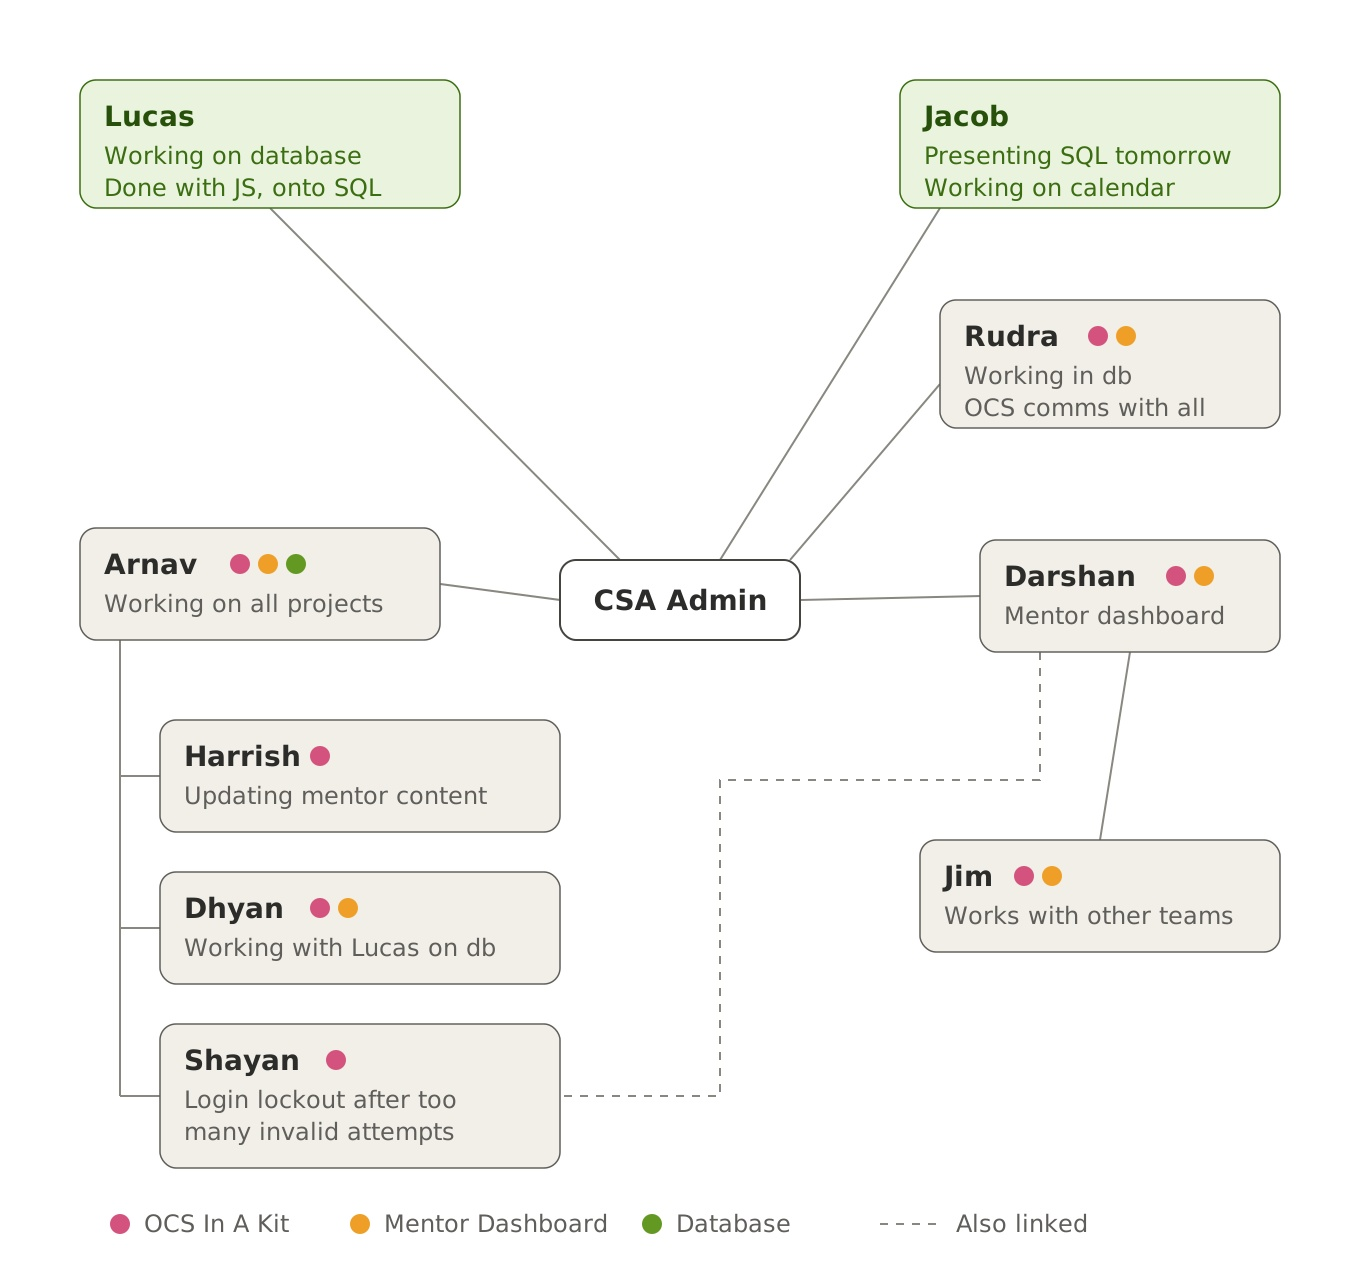
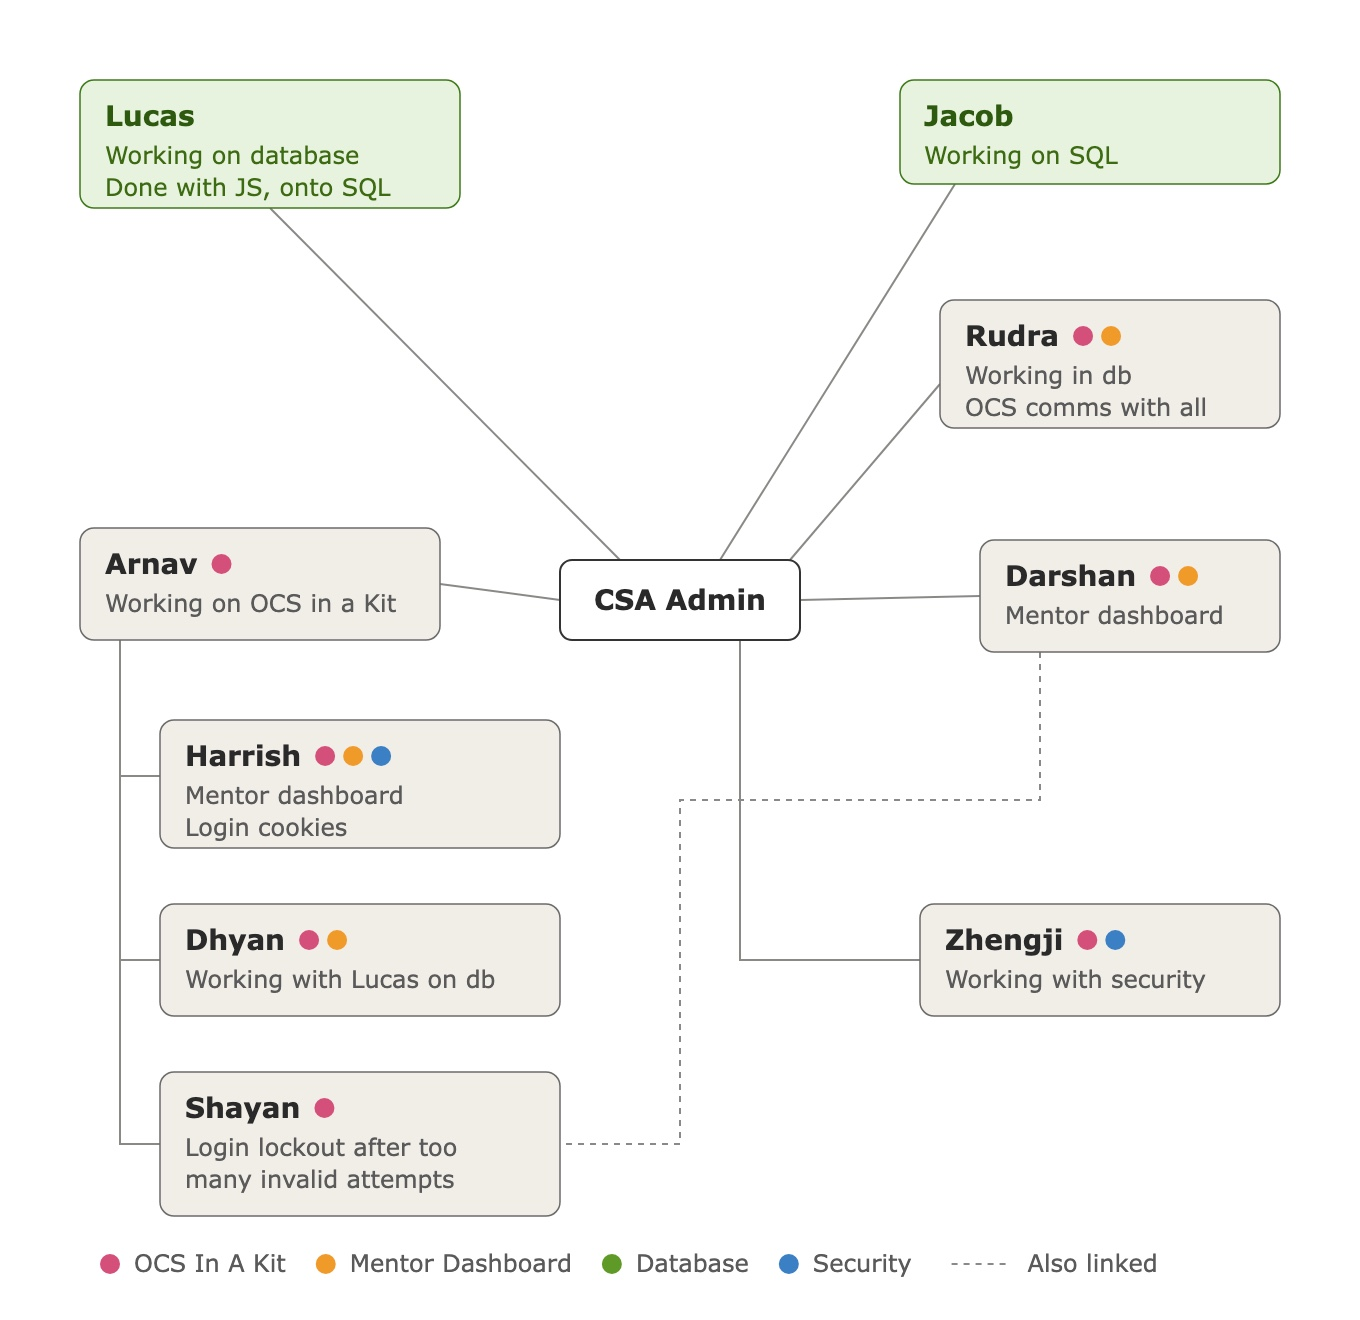
Update OCS Admin & Security team flow for new assignments
Arnav now works only on OCS in a Kit, Harrish joins the mentor dashboard
and works on login cookies, Jacob focuses on SQL, and Zhengji (formerly
labeled Jim) works with security. The mindmap is redrawn with a Security
legend entry, and the page text, alt text, and Security section match.

diff --git a/_includes/ocs-admin-security-team.html b/_includes/ocs-admin-security-team.html
@@ -68,7 +68,7 @@
 <h2 class="ocs__section-title">Security</h2>
 <p class="ocs__lead">Every kit ships safe: only verified people get in, and student code never touches the platform.</p>
 <div class="ocs__split">
-<div class="ocs__visual"><div class="ocs__team"><span class="ocs__team-label">Owned by</span><span class="ocs__team-name">Jacob C, Lucas M, Zhengji L</span></div></div>
+<div class="ocs__visual"><div class="ocs__team"><span class="ocs__team-label">Owned by</span><span class="ocs__team-name">Zhengji L, Harrish A, Jacob C, Lucas M</span></div></div>
 <div class="ocs__visual"><div class="ocs__team"><span class="ocs__team-label">Built with</span><span class="ocs__team-name"><span class="ocs__status-pill">Spring Boot</span> <span class="ocs__status-pill">Flask</span> <span class="ocs__status-pill">Docker</span> <span class="ocs__status-pill">JWT</span> <span class="ocs__status-pill">Google OAuth2</span></span></div></div>
 </div>
 <h3 class="ocs__section-title">Shipped <span class="ocs__status-pill ocs__status-pill--good">5</span></h3>
@@ -79,6 +79,10 @@
 <div class="ocs__keypoint"><span class="ocs__check">&#10003;</span><span><strong>Safe password sync.</strong> Plaintext sync to Flask is refused over insecure links.</span></div>
 <div class="ocs__keypoint"><span class="ocs__check">&#10003;</span><span><strong>Isolated Flask runner.</strong> Python runs in its own Docker container, never in the main app.</span></div>
 </div>
+<h3 class="ocs__section-title">In progress <span class="ocs__status-pill ocs__status-pill--warn">1</span></h3>
+<ul class="ocs__checklist">
+<li class="open"><span class="ocs__checklist-box"></span><span><strong>Login cookies.</strong> Harrish is working on the cookies that keep a user signed in, so a session stays secure from login to logout.</span></li>
+</ul>
 <h3 class="ocs__section-title">Next <span class="ocs__status-pill ocs__status-pill--warn">7</span></h3>
 <ul class="ocs__checklist">
 <li><span class="ocs__checklist-box"></span><span><strong>Simpler password policy.</strong> Spring's password-complexity check is causing support issues, so it comes out first.</span></li>
@@ -131,7 +135,7 @@
 </ul>
 <h3 class="ocs__section-title">In progress <span class="ocs__status-pill ocs__status-pill--warn">1</span></h3>
 <ul class="ocs__checklist">
-<li class="open"><span class="ocs__checklist-box"></span><span><strong>Mentor dashboard.</strong> We are building a dashboard where each mentor tracks only their own groups' progress and notes, building on the mentor role and verification already shipped. Darshan leads it, and Zhengji brings in what other teams need from it.</span></li>
+<li class="open"><span class="ocs__checklist-box"></span><span><strong>Mentor dashboard.</strong> We are building a dashboard where each mentor tracks only their own groups' progress and notes, building on the mentor role and verification already shipped. Darshan leads it, with Harrish building alongside.</span></li>
 </ul>
 <h3 class="ocs__section-title">Next <span class="ocs__status-pill ocs__status-pill--warn">5</span></h3>
 <ul class="ocs__checklist">
@@ -185,13 +189,14 @@
 <div class="ocs__grid-cell"><strong>Reviewed and reported</strong><br>Review before done, and a weekly update every Thursday.</div>
 </div>
 <h3 class="ocs__section-title" id="team-flow">Our team flow</h3>
-<p>This mindmap shows how we split the work. Everyone branches off the CSA Admin hub, and the colored dots show which workstreams each person is on: <strong>OCS in a Kit</strong> (pink), <strong>Mentor Dashboard</strong> (orange), and <strong>Database</strong> (green). Zhengji appears under the nickname Jim.</p>
-<img class="ocs__image-frame" src="{{ '/images/capstone/csa-admin-mindmap.jpg' | relative_url }}" alt="Mindmap of the CSA Admin team. Lucas works on the database and has moved from JS to SQL. Jacob is presenting SQL and working on the calendar. Rudra works in the database and handles OCS communications. Arnav works on all projects and leads Harrish (updating mentor content), Dhyan (working with Lucas on the database), and Shayan (login lockout after too many invalid attempts). Darshan builds the mentor dashboard with Zhengji (labeled Jim), who works with other teams. A dashed line links Shayan's lockout work to Darshan." loading="lazy">
+<p>This mindmap shows how we split the work. Everyone branches off the CSA Admin hub, and the colored dots show which workstreams each person is on: <strong>OCS in a Kit</strong> (pink), <strong>Mentor Dashboard</strong> (orange), <strong>Database</strong> (green), and <strong>Security</strong> (blue).</p>
+<img class="ocs__image-frame" src="{{ '/images/capstone/csa-admin-mindmap.jpg' | relative_url }}" alt="Mindmap of the CSA Admin team. Lucas works on the database and has moved from JS to SQL. Jacob works on SQL. Rudra works in the database and handles OCS communications. Arnav works on OCS in a Kit and leads Harrish (mentor dashboard and login cookies), Dhyan (working with Lucas on the database), and Shayan (login lockout after too many invalid attempts). Darshan builds the mentor dashboard. Zhengji works with security. A dashed line links Shayan's lockout work to Darshan." loading="lazy">
 <h3 class="ocs__section-title">How the work flows</h3>
 <div class="ocs__grid ocs__grid--standard cols-2">
-<div class="ocs__grid-cell"><strong>Arnav coordinates every project</strong><br>Arnav is the only member on all three workstreams, and Harrish, Dhyan, and Shayan report through Arnav. That keeps kit, mentor, and database work from drifting apart.</div>
-<div class="ocs__grid-cell"><strong>Darshan owns the mentor dashboard</strong><br>Zhengji works alongside Darshan and carries requests to and from other teams, so the dashboard fits how the rest of OCS uses mentors.</div>
-<div class="ocs__grid-cell"><strong>The database track runs in parallel</strong><br>Lucas and Jacob (the green boxes) work on SQL, and Jacob also builds the calendar. Dhyan pairs with Lucas, and Rudra works in the database while handling OCS communications for the team.</div>
+<div class="ocs__grid-cell"><strong>Arnav drives OCS in a Kit</strong><br>Arnav works only on the kit, and Harrish, Dhyan, and Shayan report through Arnav. That keeps every branch building toward something another school can set up.</div>
+<div class="ocs__grid-cell"><strong>Darshan and Harrish build the mentor dashboard</strong><br>Darshan leads the dashboard and Harrish builds alongside, so mentors can track their own groups. Harrish also works on login cookies, tying the dashboard to secure sign-in.</div>
+<div class="ocs__grid-cell"><strong>Zhengji anchors security</strong><br>Zhengji works with security, alongside Harrish's login cookies and Shayan's login lockout, so sign-in stays protected as the kit grows.</div>
+<div class="ocs__grid-cell"><strong>The database track runs in parallel</strong><br>Lucas and Jacob (the green boxes) work on SQL. Dhyan pairs with Lucas, and Rudra works in the database while handling OCS communications for the team.</div>
 <div class="ocs__grid-cell"><strong>Every task feeds the kit</strong><br>Nearly every member carries the pink dot: whatever they build keeps its school-specific values in the kit. Dashed lines mark work that crosses branches, such as Shayan's login lockout, which ties into the accounts Darshan's dashboard shows.</div>
 </div>
 </div>
